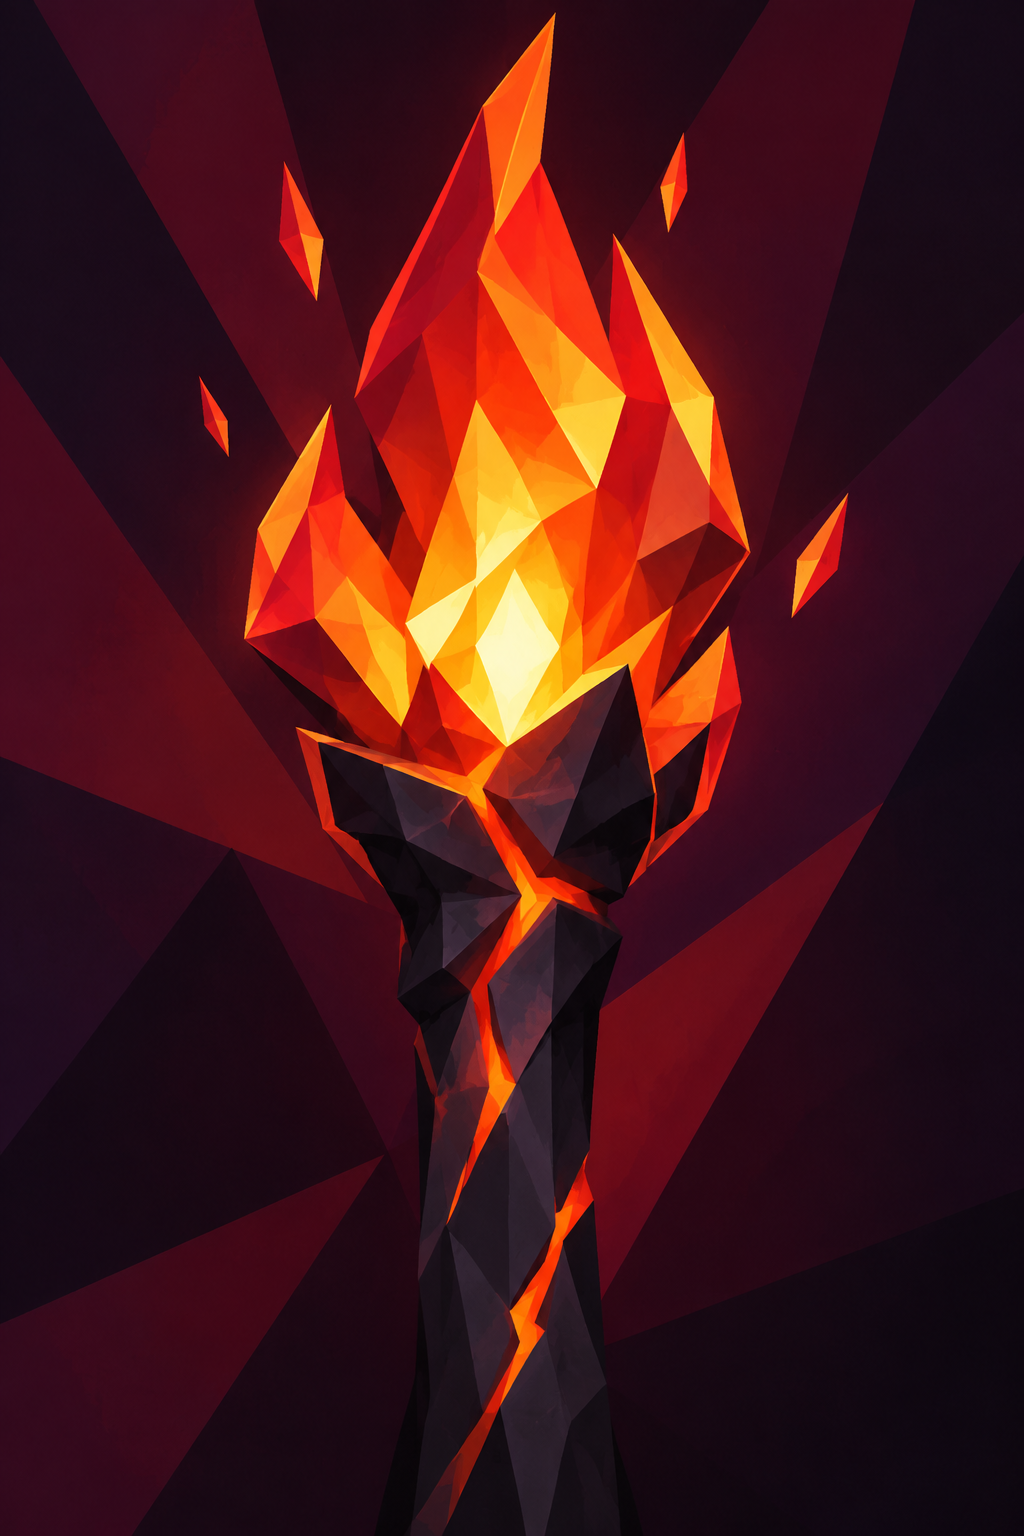
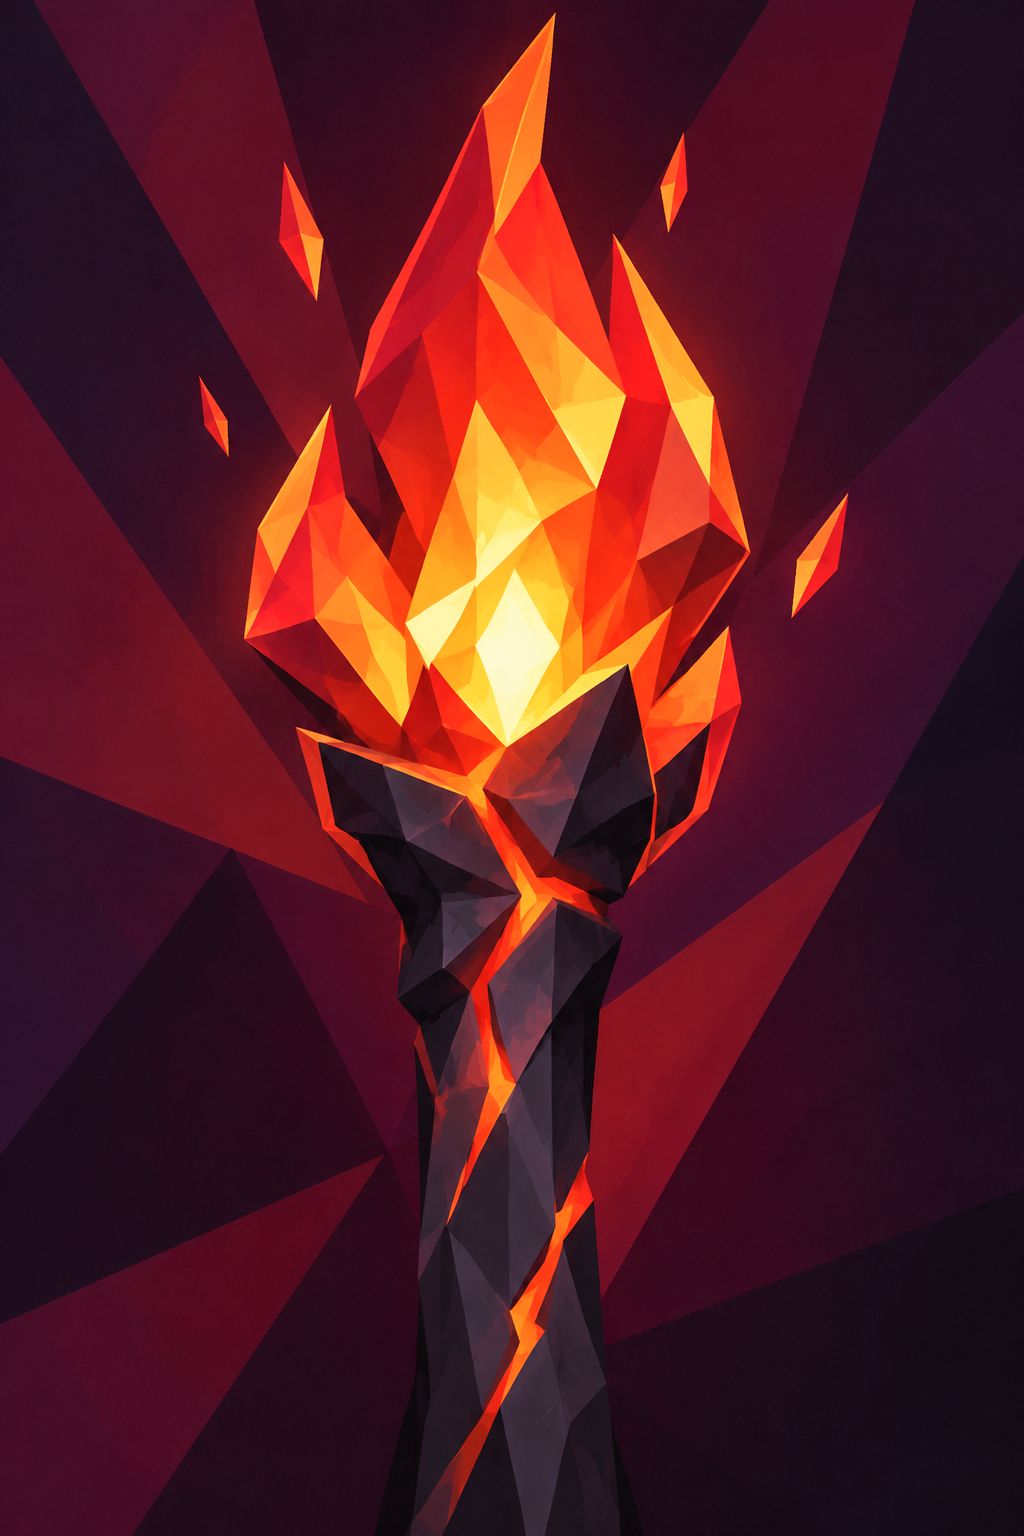
10-1

diff --git a/Docs/engineering/07-卡牌插画美术与AI生图工作流.md b/Docs/engineering/07-卡牌插画美术与AI生图工作流.md
@@ -24,7 +24,6 @@
 
 ### 2.1 形体与构图
 
-- **一个主形体占据画面**：通常是一股浪、一道雷、一个火焰结构、一组藤蔓或一块岩石；不要把画面拆成多个叙事对象。
 - **纵向卡牌构图**：现有原图主要是约 `784×1168`，部分高分辨率图为 `1024×1536`；后续优先生成 `1024×1536`，保留纵向约 `2:3` 比例。
 - **强轮廓、强方向**：主体可从边缘切入或冲出画面，使用斜向、旋转、汇聚、上冲等动势，缩小到卡牌尺寸仍能读出元素和动作。
 - **前中后景分层**：背景只负责衬托主体，前景可以用少量碎片、波纹、地面或能量痕迹承接动作；不要堆叠复杂环境。
@@ -49,7 +48,9 @@
 | 火 Fire | 烈焰橙红、熔岩红金、深焰红紫、焦炭火光 | 火舌、裂面、爆燃、热核 |
 | 石 / 地 Earth | 砂土黄褐、岩灰石色、赤铁赭石、暗森泥土 | 岩块、断层、冲击波、盾面 |
 | 草 Nature | 亮草绿、柔和嫩绿、自然树丛绿、绿金 | 藤蔓、叶刃、荆棘、孢子 |
-| 电 Lightning | 荧光黄、亮青蓝、光辉白电、暗夜黑 | 闪电、放电环、雷云、折线 |
+| 电 Lightning | 暗色切面：炭灰板岩、烟灰蓝、灰紫、深青、暗橄榄；亮色：亮青蓝、青绿、荧光黄绿、近白电光；明暗面积按主体功能与构图决定，不设固定比例 | 闪电、放电环、蓄能核心、折返电流、雷霆分支、屏蔽弧面 |
+
+电系新图必须综合参考「雷鸣」「电弧」「闪电」「磁暴」「引雷」等现有卡牌，不能只套用「引雷」的大面积高亮，也不能把电系统一处理成深蓝水晶。暗色负责体积、背景切面、内层和屏蔽空间；亮色负责电流核心、受力边缘、放电路径和视觉焦点。亮暗的面积与明度必须根据主体是蓄能、释放、攻击还是防御来安排，不设固定的亮暗比例。
 
 ### 2.4 必须避免
 
@@ -139,29 +140,10 @@ pwsh -File Tools/ImageGeneration/Generate-LikeAiImage.ps1 `
 3. **本机生成**：调用 LikeAI，输出到项目外；保留生成图和提示词文件，便于回溯。
 4. **视觉验收**：检查主体、元素识别、轮廓、低多边形切面、配色、文字/水印/现代物体禁项，并缩小到卡牌显示尺寸复核。
 5. **落位**：有卡牌定义时进入 `Assets/Art/CardArt/`；无卡牌定义时进入 `Assets/Art/CardArt/_Draft/`。
-6. **刷新资源**：让 Unity 生成 `.meta`，确认 `Texture Type = Sprite (2D and UI)`、`Sprite Mode = Single`、`Max Size >= 2048`、关闭 Mipmap、`Wrap = Clamp`。
-7. **映射与验证**：正式卡牌才重建 `CardArtLibrary`；草稿不进入运行时映射。记录生成方式、提示词版本和验收结果。
+ |
 
-## 6. 本次示例：海啸「扑岸版」
-
-本次新图使用纯文字文生图，没有使用项目中已有的两张海啸草稿，也没有上传参考图。
-
-| 项 | 值 |
-|---|---|
-| 外部生成文件 | `C:\Users\<用户名>\.codex\generated_images\unity-cardfight\tsunami-likeai-v2-impact.png` |
-| 项目草稿 | `Assets/Art/CardArt/_Draft/Draft_Water_海啸_扑岸.png` |
-| 提示词记录 | `Artifacts/cardart-drafts/Draft_Water_海啸_扑岸.prompt.txt` |
-| 模型 / 尺寸 | `gpt-image-2` / `1024×1536` |
-| 核心构图 | 低机位近岸视角、海墙压满画面、深色浪腹正面冲向镜头、近岸暗色几何岸线 |
-| 验收 | Unity 已导入；`.meta` 已生成；控制台新增错误/警告为 0 |
-
-## 7. 交付前检查表
+## 6. 交付前检查表
 
 - [ ] 图片只包含插画，不含文字、数字、Logo、水印和卡框。
-- [ ] 主体在缩略图尺寸仍可辨识，且没有多余叙事对象。
 - [ ] 低多边形面、硬边色块和元素色组与本作一致。
 - [ ] 构图方向符合卡牌含义，不是静态素材或普通风景图。
-- [ ] 文件放在正确目录，命名与卡牌是否已落规则相匹配。
-- [ ] Unity 已生成 `.meta`，导入设置符合卡牌插画约定。
-- [ ] 真实 key 未进入项目、Git、提示词文件、日志或截图。
-- [ ] 生成提示词和输出版本可追溯，但不保存完整 API 响应或 Base64。
